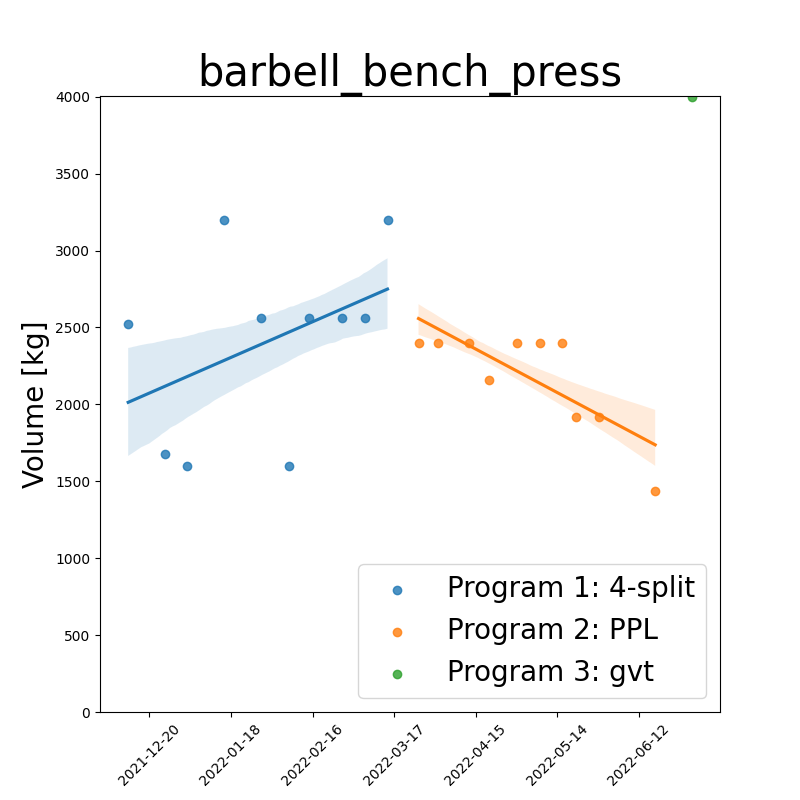
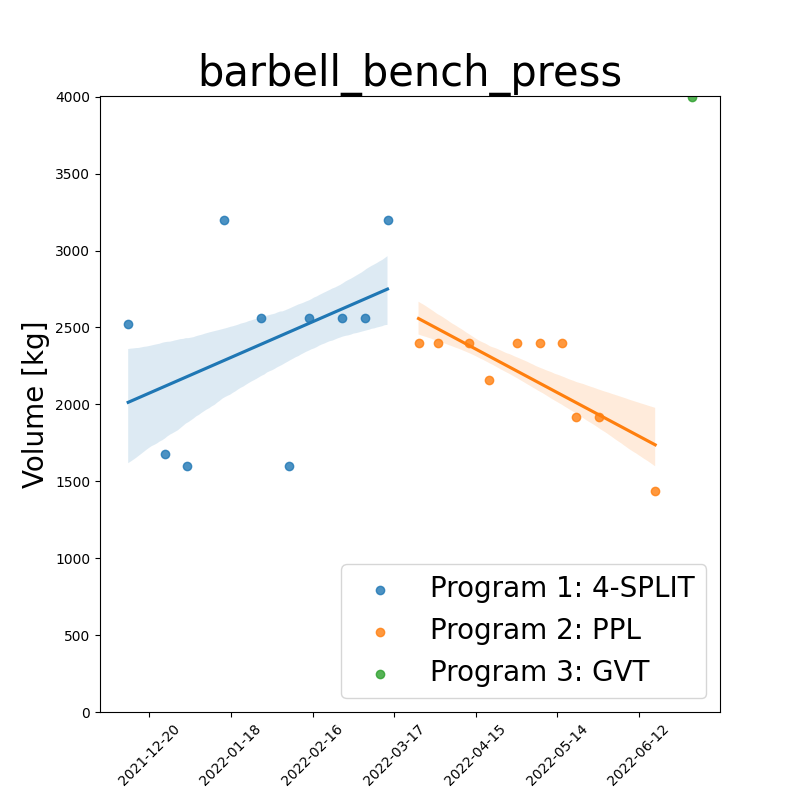
chore: update figure legend

diff --git a/src/model/plot_model.py b/src/model/plot_model.py
@@ -83,9 +83,9 @@ def create_volume_plots(datatype: str, x: list, y: list, exercise: str) -> None:
     x_prg1, x_prg2, x_prg3 = x[:10], x[10:20], x[20:]
     y_prg1, y_prg2, y_prg3 = y[:10], y[10:20], y[20:]
 
-    ax = sns.regplot(x=x_prg1, y=y_prg1, ci=68, label="Program 1: 4-split")
+    ax = sns.regplot(x=x_prg1, y=y_prg1, ci=68, label="Program 1: 4-SPLIT")
     sns.regplot(x=x_prg2, y=y_prg2, ci=68, label="Program 2: PPL")
-    sns.regplot(x=x_prg3, y=y_prg3, ci=68, label="Program 3: gvt")
+    sns.regplot(x=x_prg3, y=y_prg3, ci=68, label="Program 3: GVT")
 
     ax.set_title(f"{exercise}", fontsize=30)
     xticks = ax.get_xticks()
